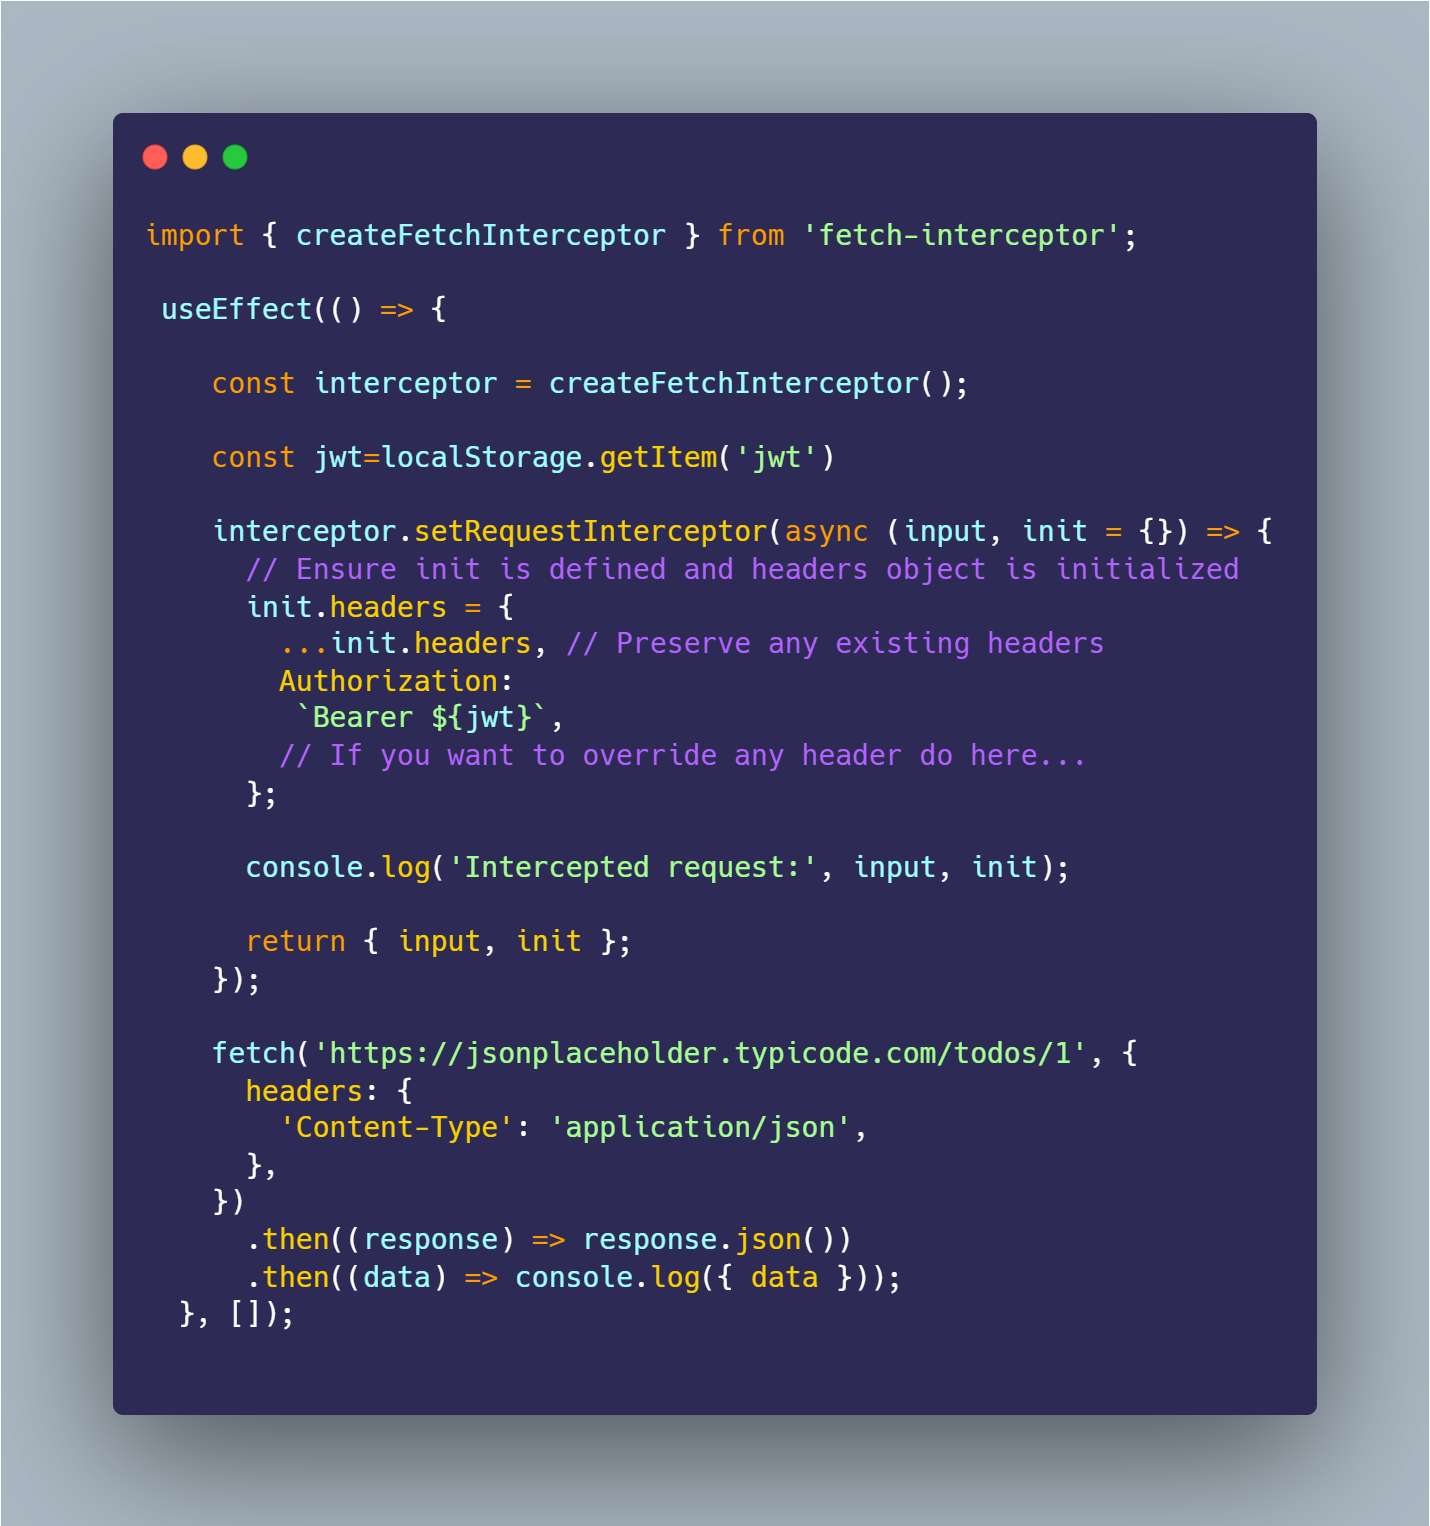
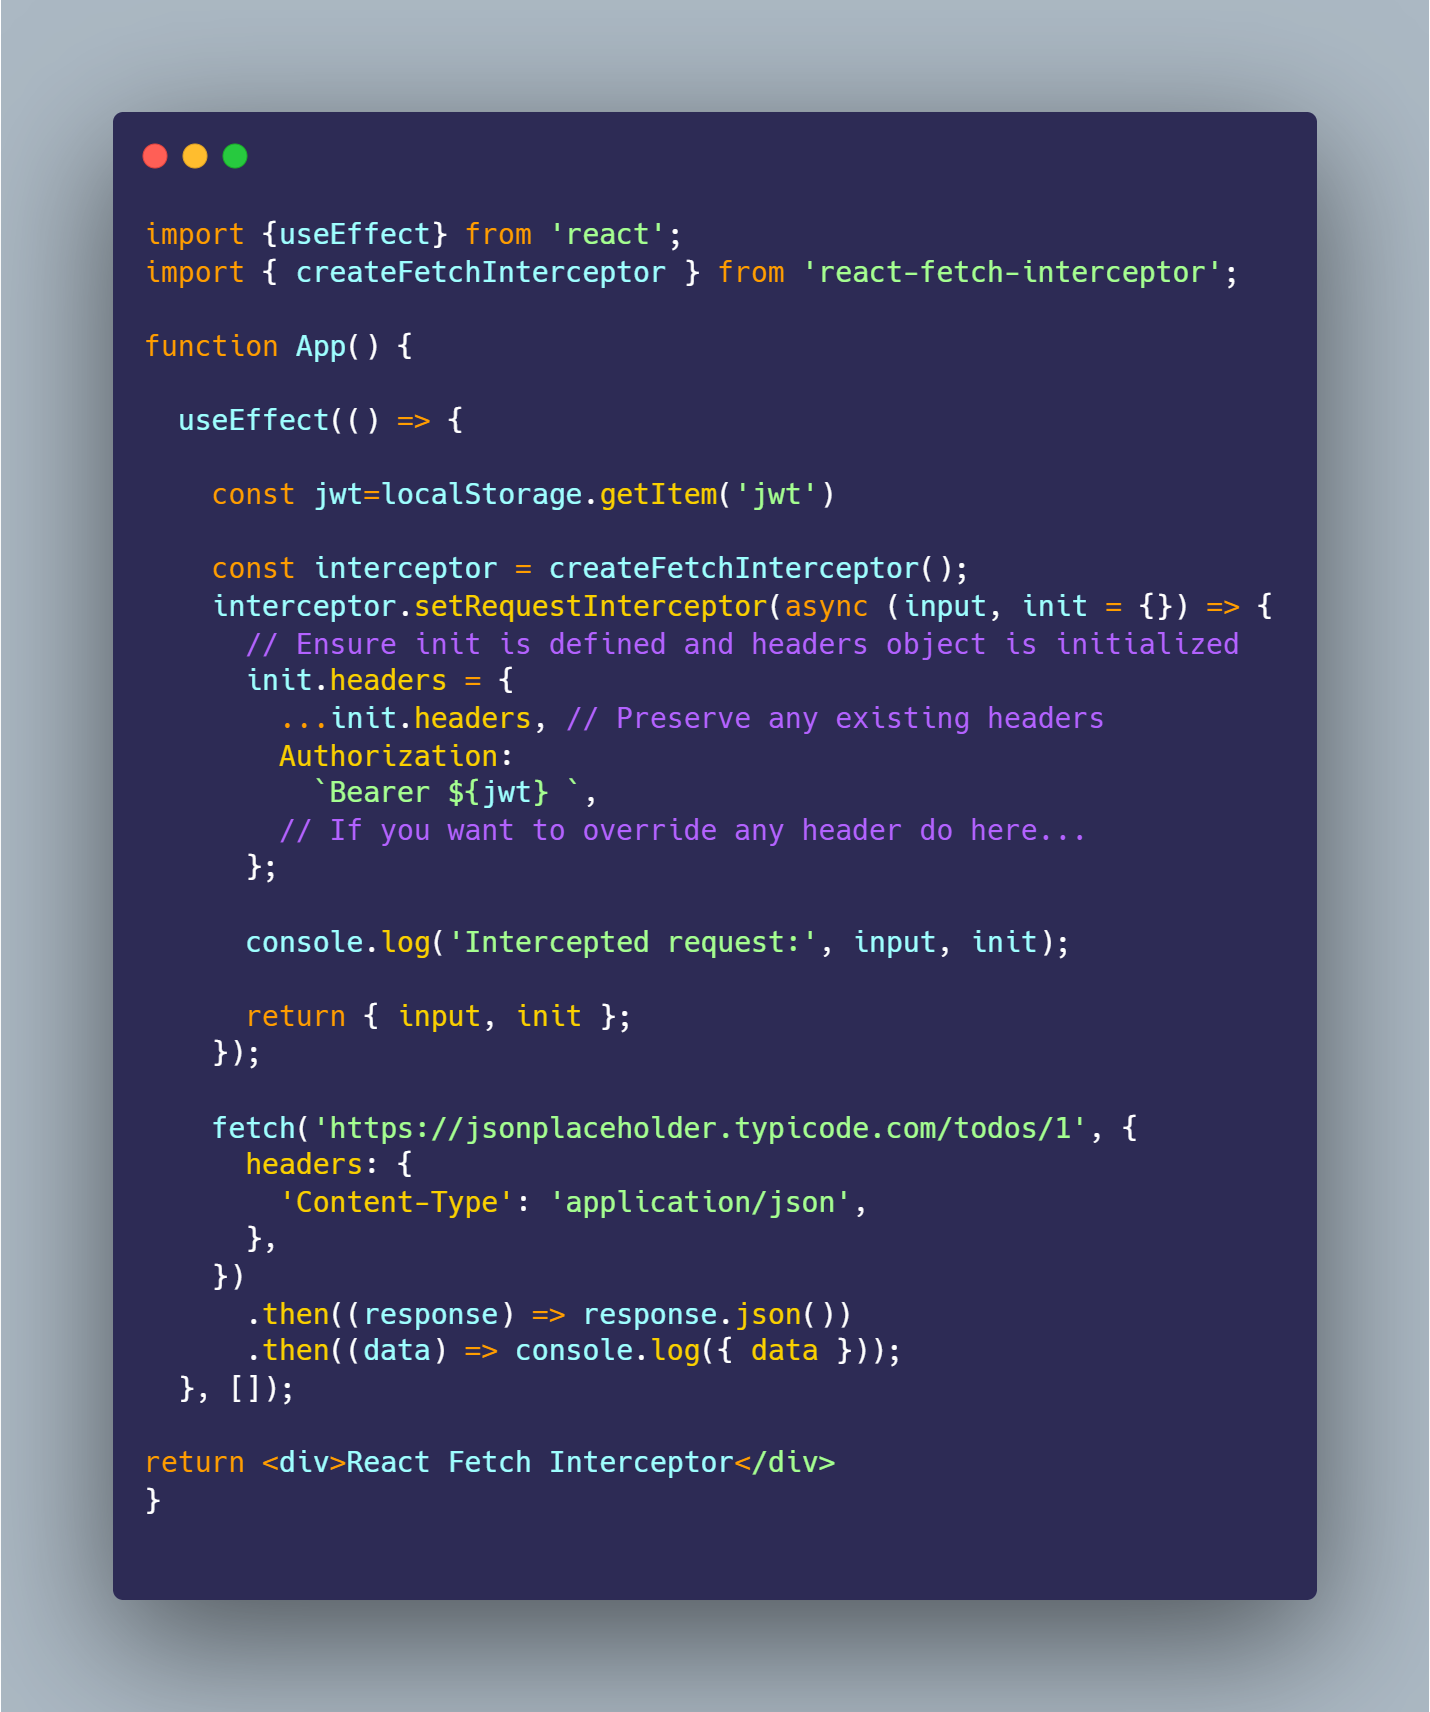
updated package name

diff --git a/readme.md b/readme.md
@@ -11,7 +11,7 @@
 ## Install
 
 ```bash
-$ npm install --save fetch-interceptor
+$ npm install --save react-fetch-interceptor
 ```
 
 ## Usage
